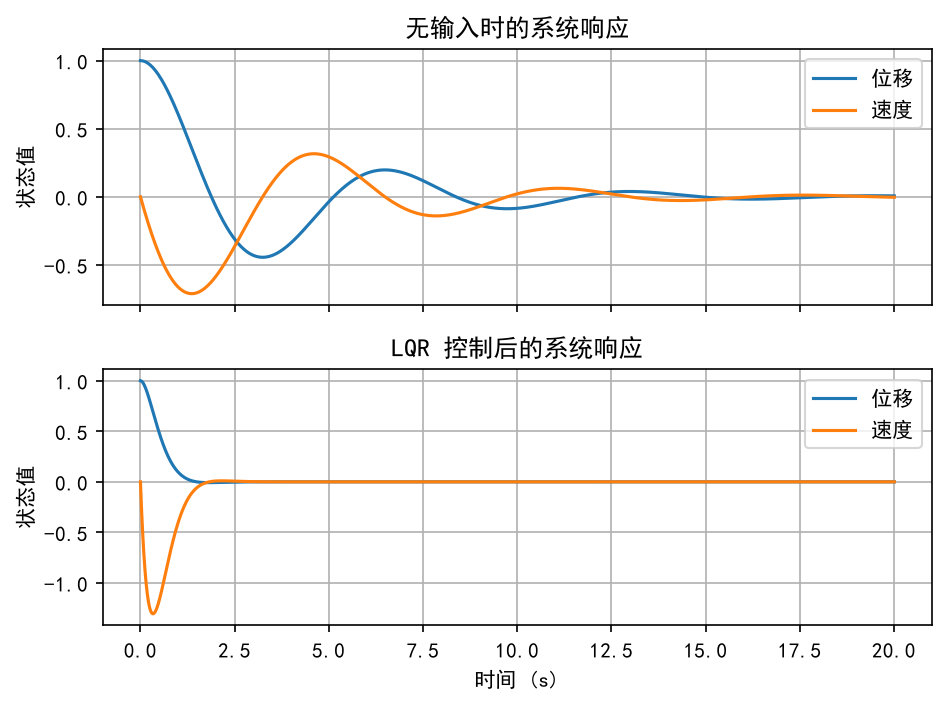
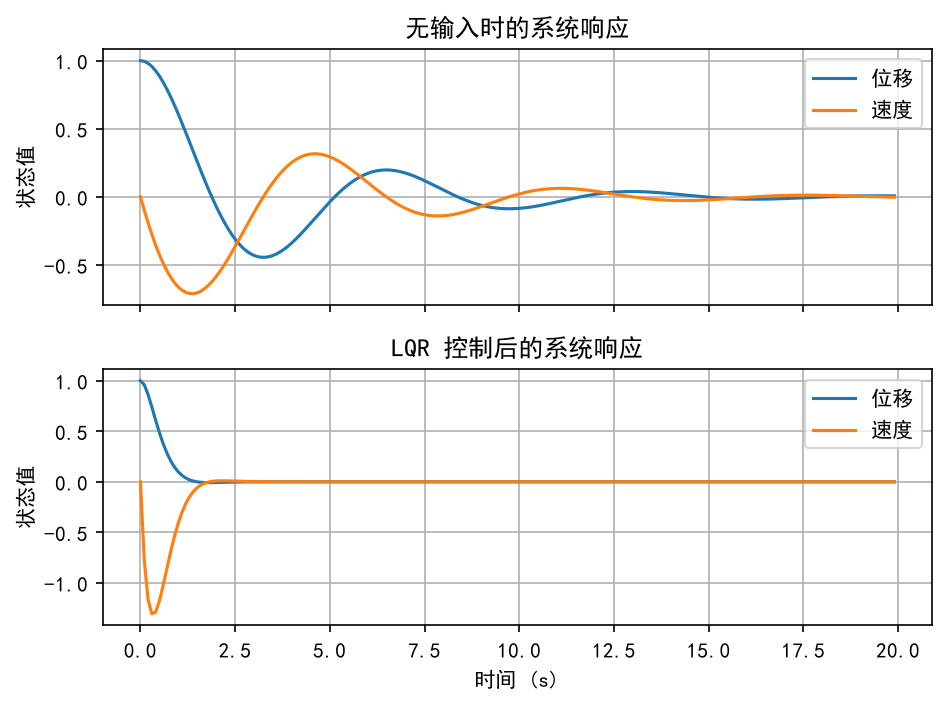
对LQR做了一些交接和修改

diff --git a/LinearQuadraticRegulator/LQR.py b/LinearQuadraticRegulator/LQR.py
@@ -22,24 +22,26 @@ def main():
 	print("A =\n", A)
 	print("B =\n", B)
 
-	dt = 0.01
+	dt = 0.1  # 离散化时间步长为 0.1 秒。
 	# 使用零阶保持器将连续系统离散化，便于数字控制器实现。
 	discrete_system = ct.c2d(system, dt, method="zoh")
 	print("离散模型状态方程：x[k + 1] = A_d x[k] + B_d u[k]")
-	print("A_d =\n", np.asarray(discrete_system.A))
-	print("B_d =\n", np.asarray(discrete_system.B))
+	print("A_d =\n", discrete_system.A)
+	print("B_d =\n", discrete_system.B)
 
-	time = np.arange(0.0, 20.0 + dt, dt)
-	x0 = [1.0, 0.0]
+	time = np.arange(0.0, 20.0, dt)
+	x0 = np.array([1.0, 0.0])  # 初始位移为 1.0，初始速度为 0.0。
 
 	# 使用离散系统在无输入条件下计算初始响应。
 	response = ct.initial_response(discrete_system, T=time, X0=x0)
-	states = np.asarray(response.states)
+	states = response.x
 
 	# 设计离散 LQR 控制器，并使用状态反馈逐步计算控制输入。
 	Q = np.diag([10.0, 1.0])
 	R = np.array([[0.1]])
-	K, _, _ = ct.dlqr(discrete_system, Q, R)
+	K, S, E = ct.dlqr(discrete_system, Q, R)
+	print("离散 LQR 控制器增益矩阵 K =\n", K)
+	print("离散 LQR 离散 Riccati 方程的解 S =\n", S)
 	controlled_states = np.zeros((2, len(time)))
 	controlled_states[:, 0] = x0
 	controlled_inputs = np.zeros(len(time) - 1)
